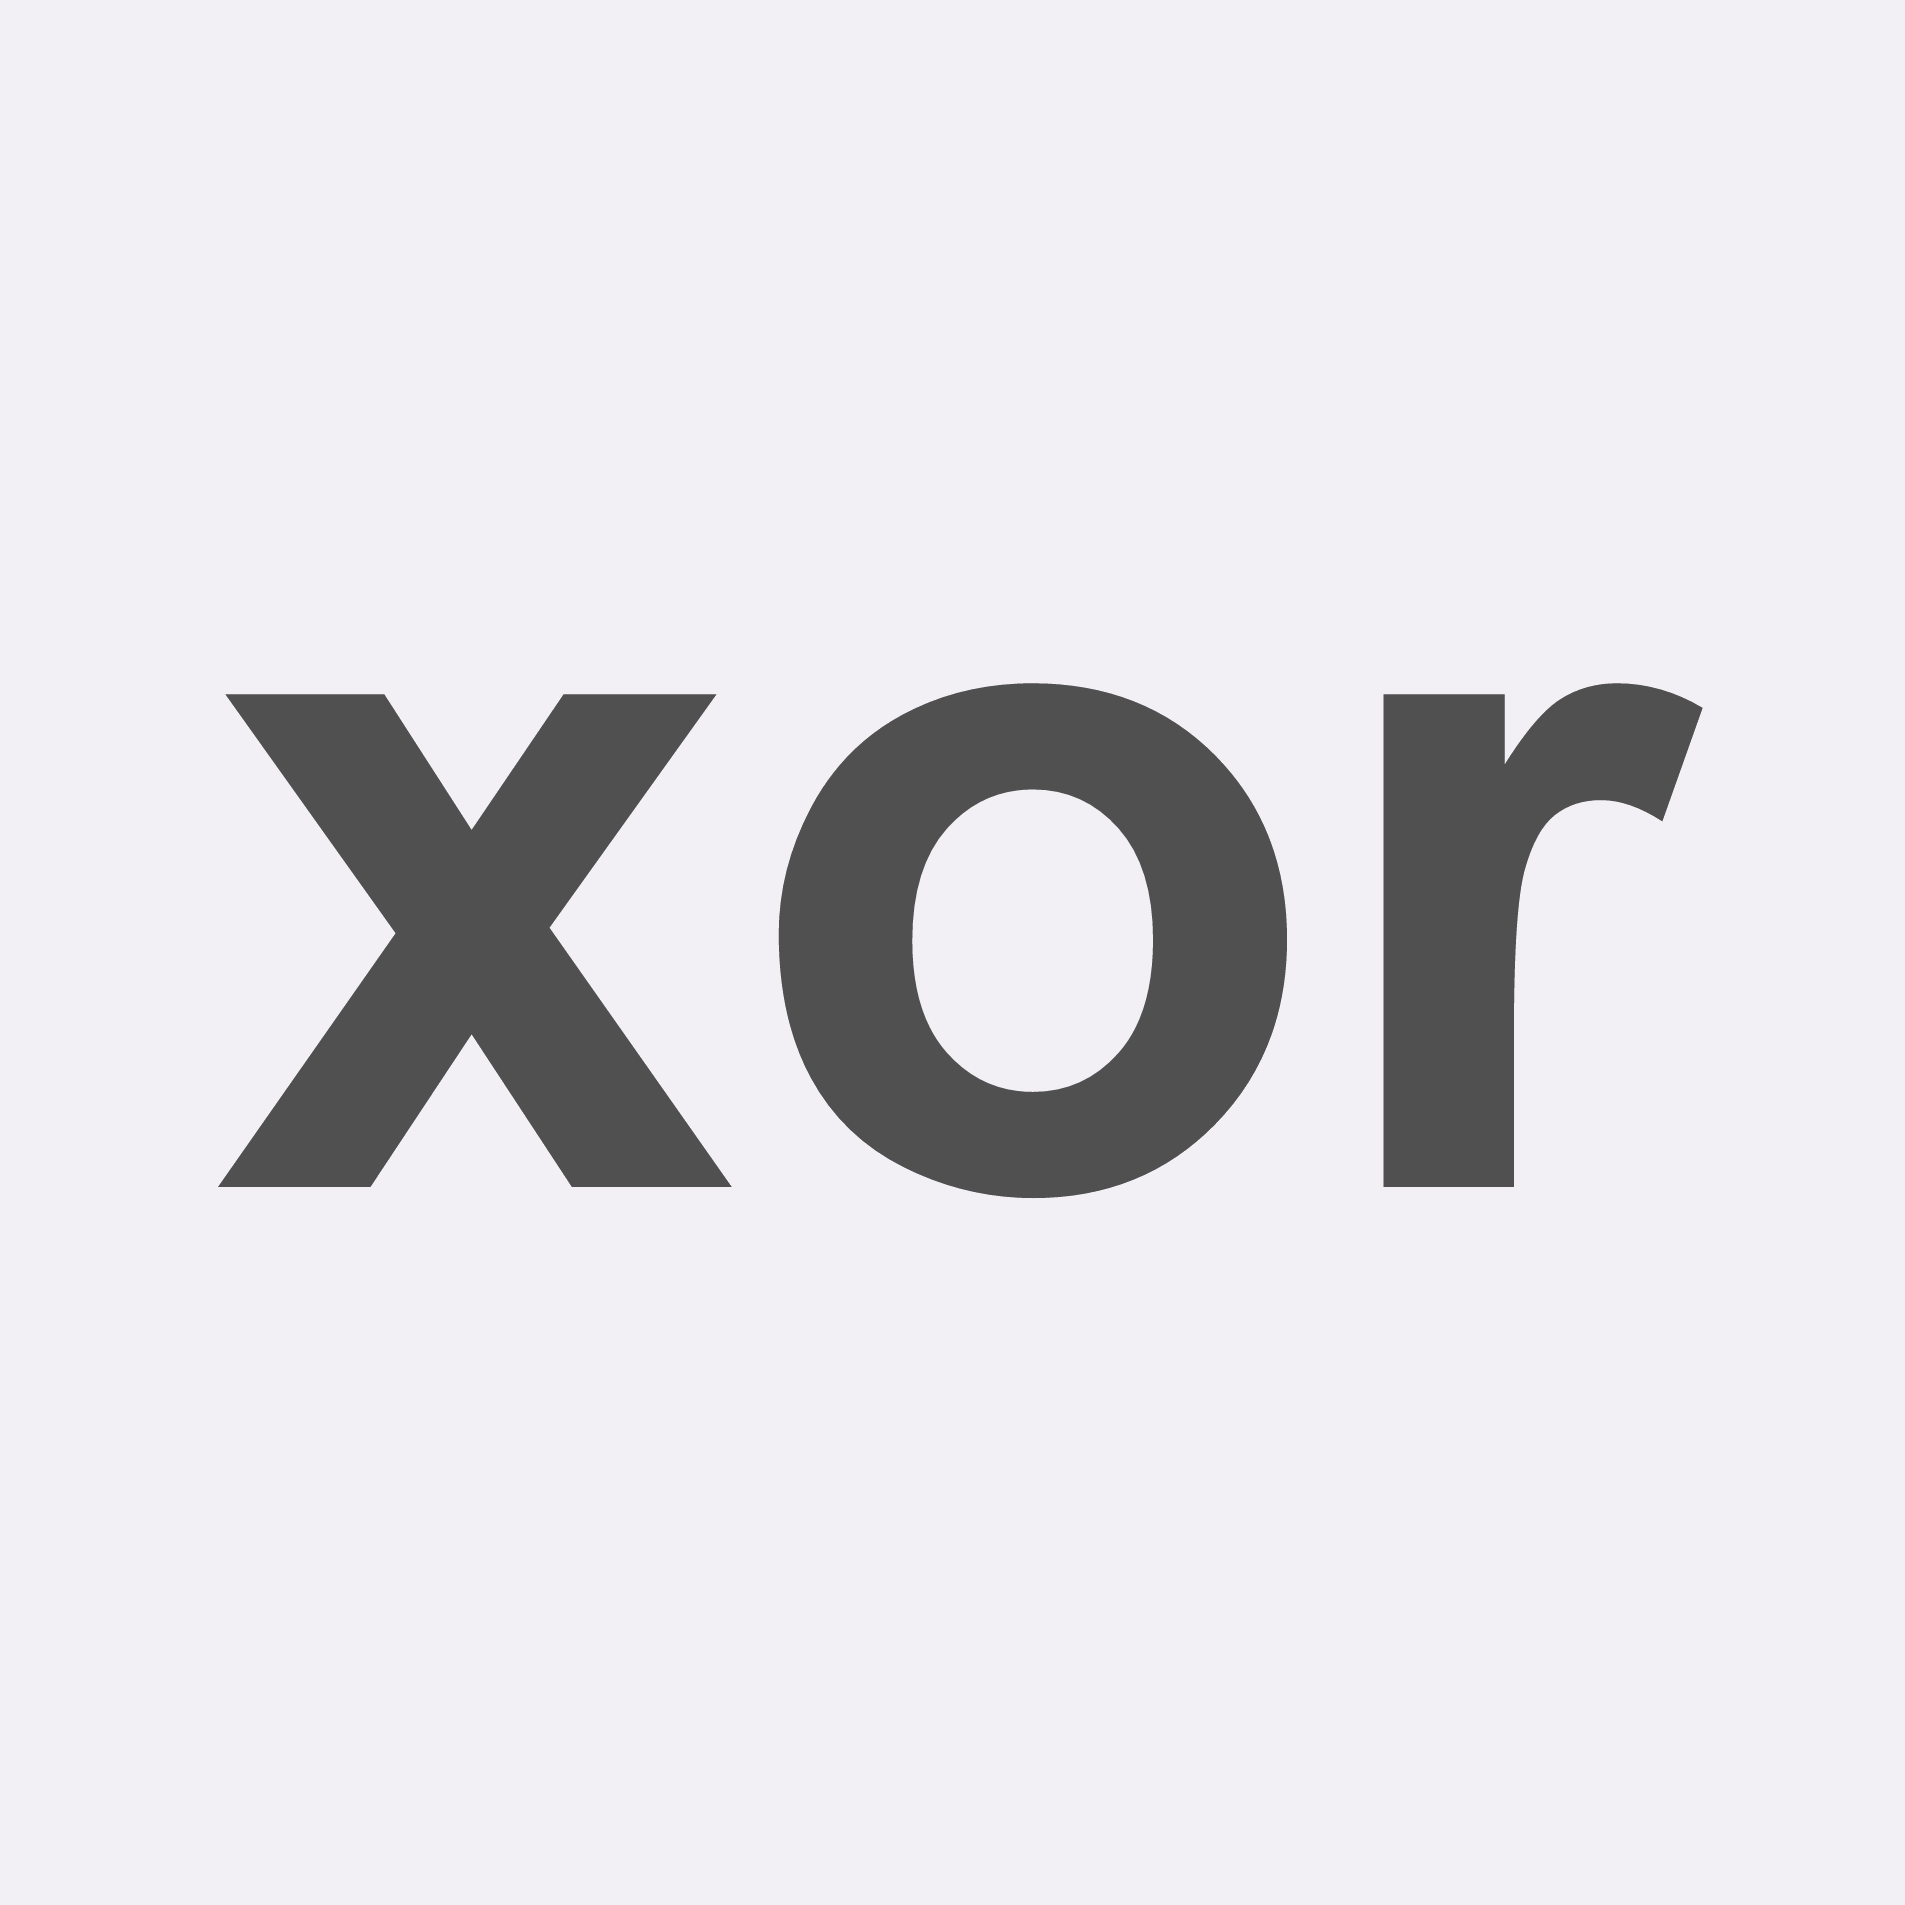
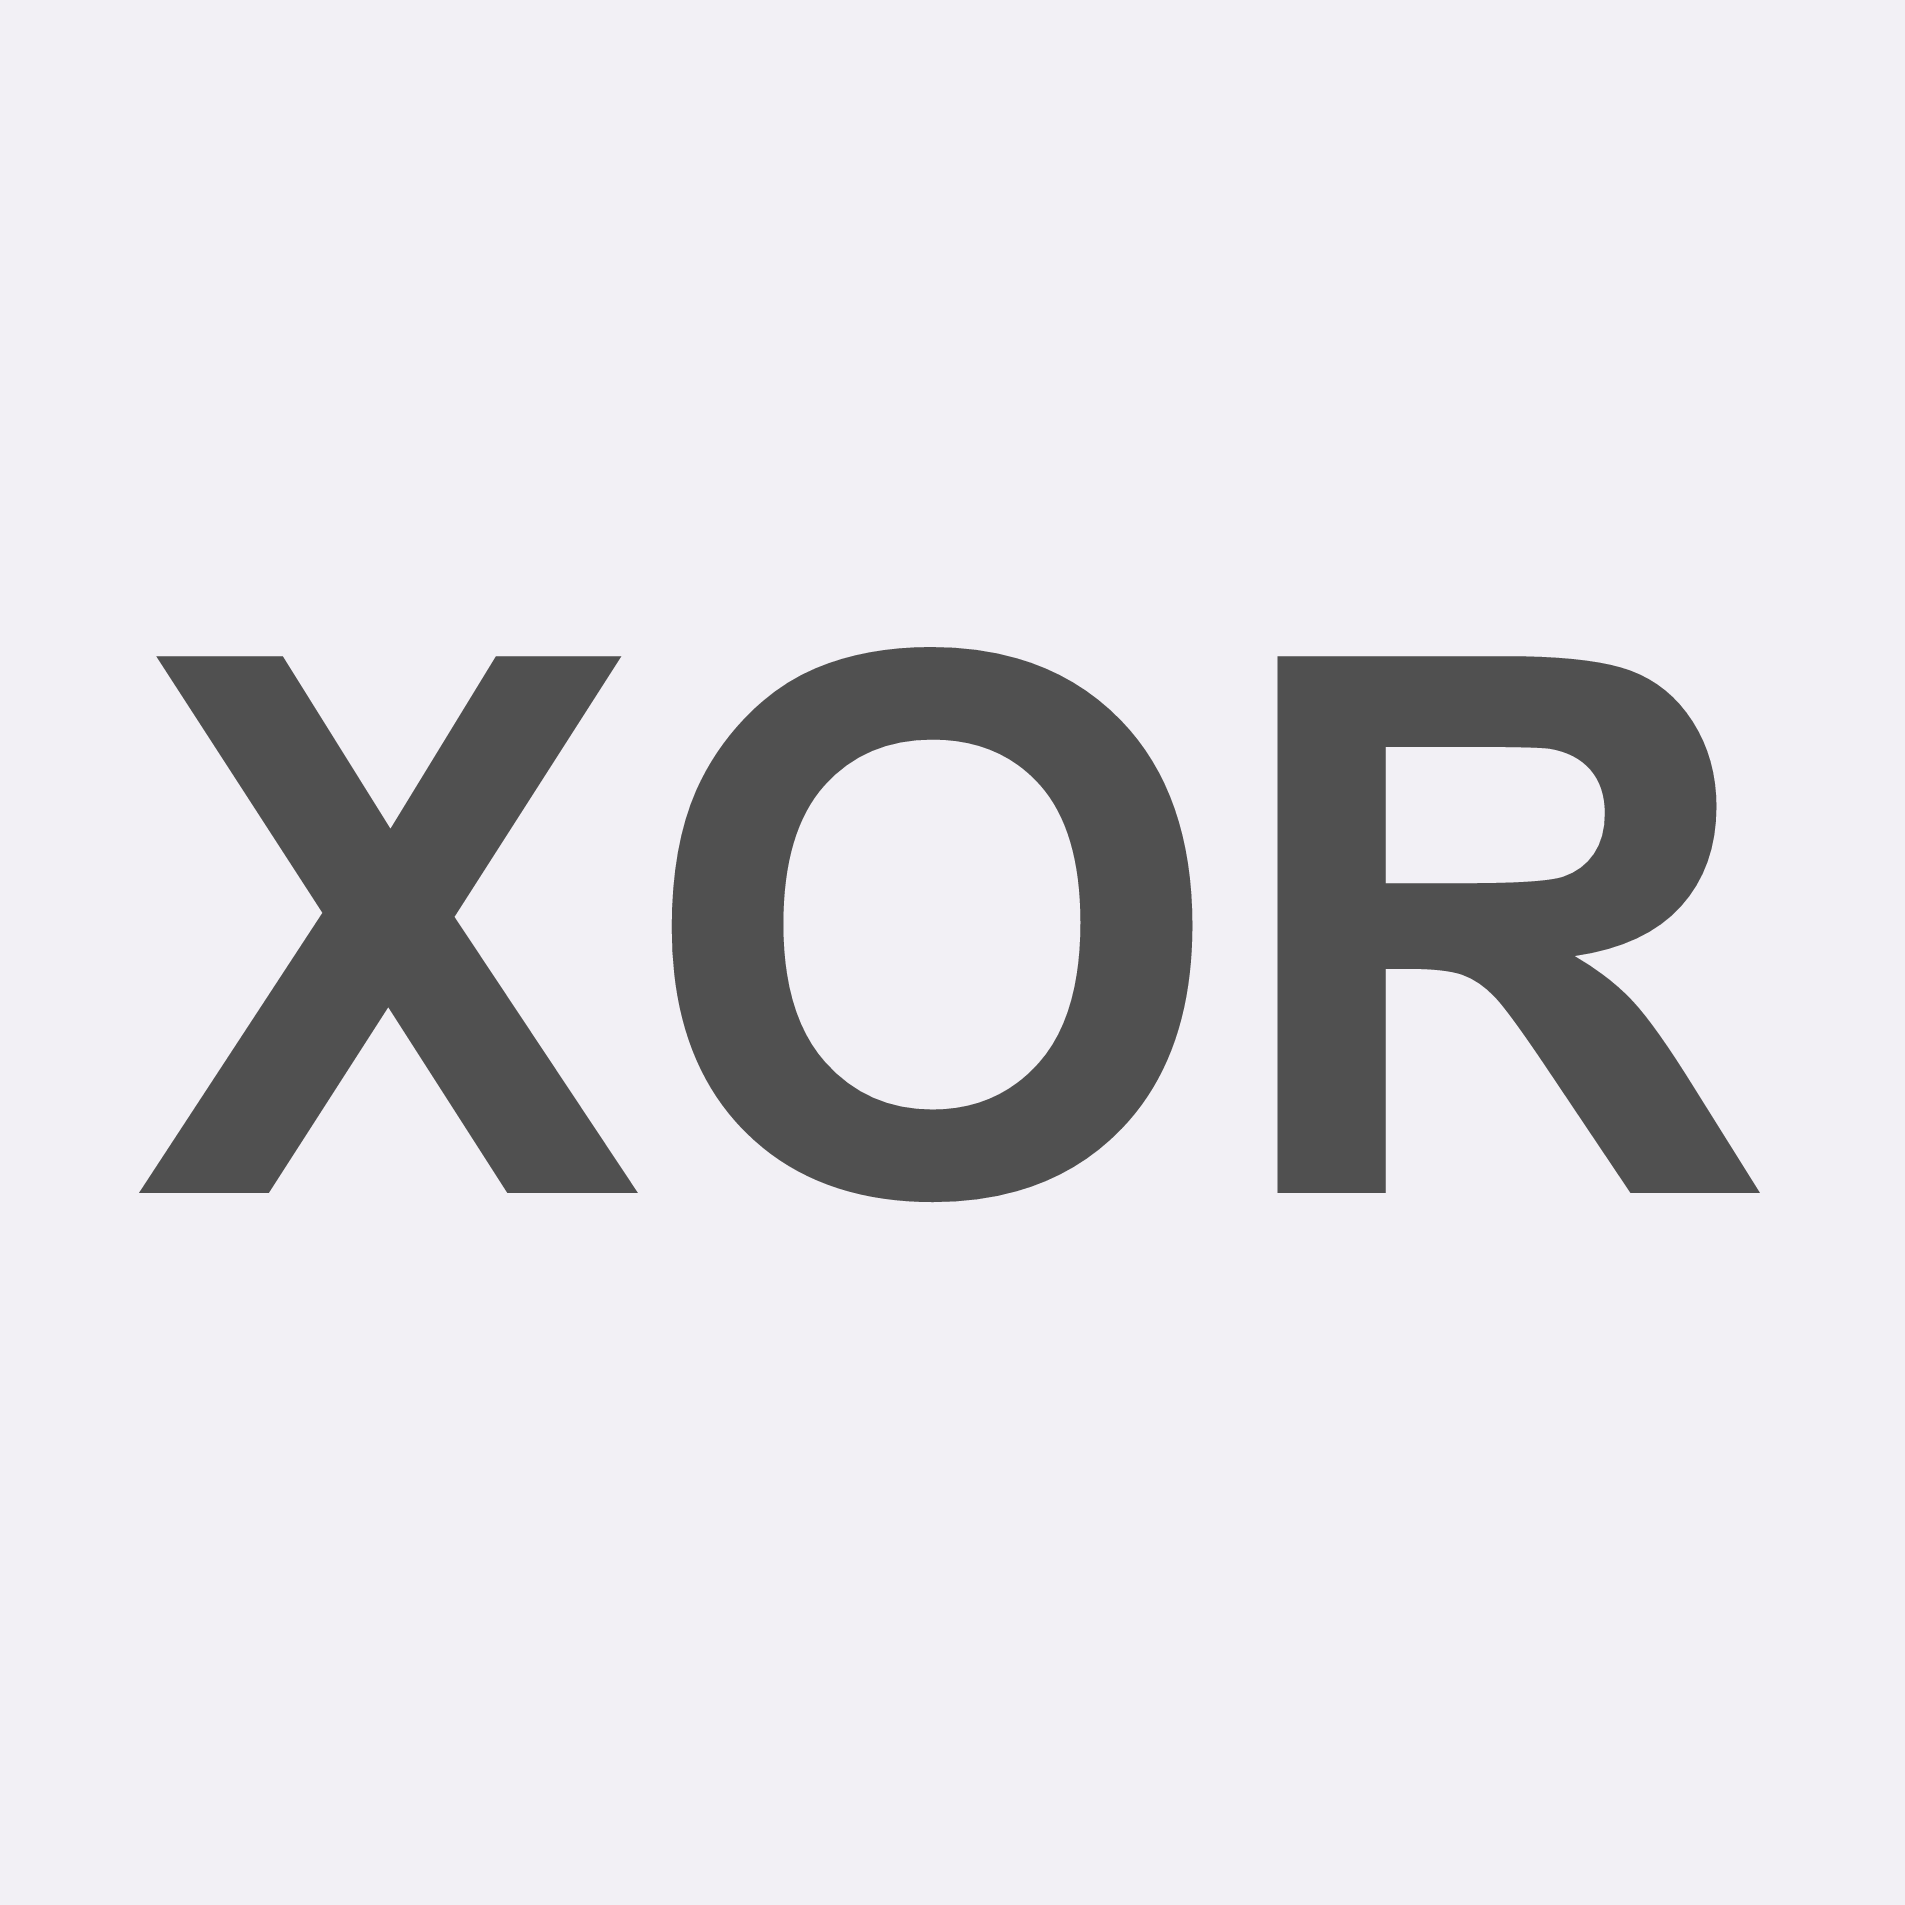
Update XOR

Changed region(s): [[0.0619, 0.3407, 0.9291, 0.6504]]

diff --git a/index.html b/index.html
@@ -116,22 +116,23 @@
                     </div>
                 </section>
                 <section class="spotlight">
-                    <div class="image"><img src="images/xor.png" alt="xor logo" /></div>
+                    <div class="image"><img src="images/xor.png" alt="XOR logo" /></div>
                     <div class="content">
-                        <h2><strong>xor</strong></h2>
+                        <h2><strong>XOR</strong></h2>
                         <p>
-                            A small collection of simple logic puzzle games.<br/>
-                            The goal is simple. Convert all cells to 1, following the rules of each puzzle.
+                            A small collection of simple logic puzzle games:<br/>
+                            <strong>XOR, XNOR, NAND, NOT</strong><br/>
+                            Convert all 0's to 1's, following the rules of each puzzle.
                         </p>
                         <p>
-                            With 1 or 2 mutators available (depending on the puzzle):
+                            With 2 mutators available:
                             <ul>
-                                <li><strong>Diagonals:</strong> The diagonal cells are included in the neighbors.</li>
-                                <li><strong>Circular:</strong> Wrap around at the edges of the grid.</li>
+                                <li>Include diagonal neighbors.</li>
+                                <li>Wrap around at the edges of the grid.</li>
                             </ul>
                         </p>
                         <p>
-                            With the power of the HTML5 application cache and local storage, it can also be
+                            With the power of the HTML5 application cache and local storage, the game can be
                             played offline and remember your best time and number of moves across multiple sessions.<br/>
                             Made with a little bit of HTML5, CSS3 and <strong><a href="https://jquery.com/">jQuery</a></strong>.
                         </p>
